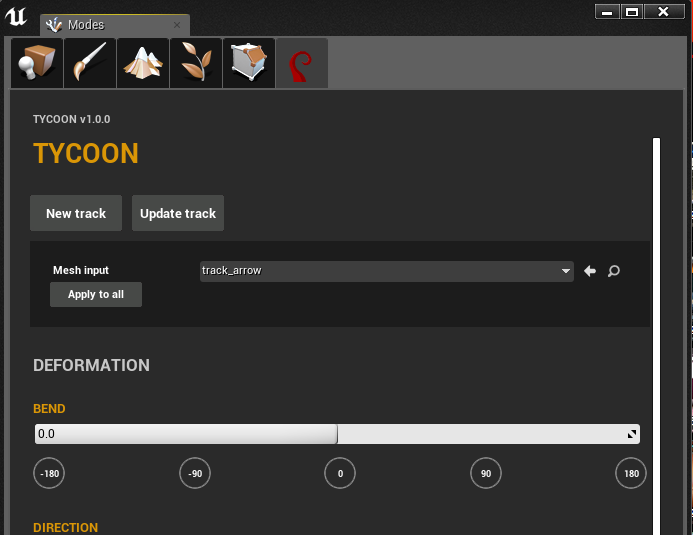
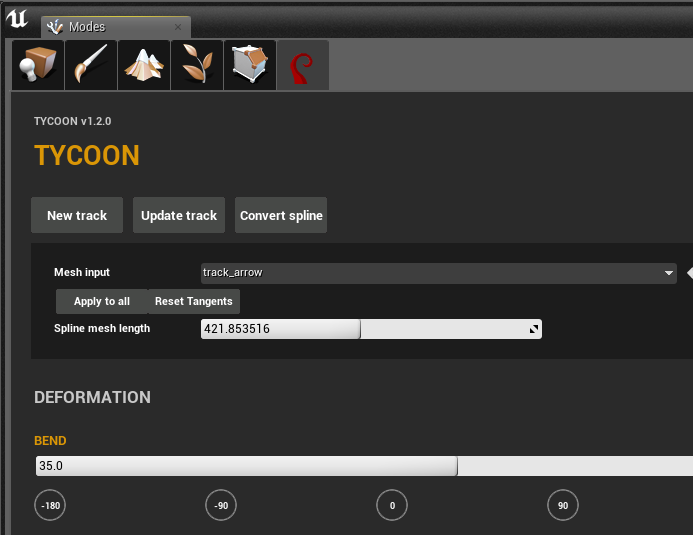
updated docs for 1.2.0

Changed region(s): [[0.0, 0.0, 1.0, 1.0]]

diff --git a/docs/quickstart.md b/docs/quickstart.md
@@ -44,14 +44,16 @@ Go to [Tycoon Service Center](https://tycoon.atlassian.net/servicedesk/customer/
 
 # Known issues with Tycoon Beta
 
-1. Source mesh must be facing the Y axis. (When preparing your mesh in your DDC application)
+Source mesh must be facing the Y axis. (When preparing your mesh in your DDC application)
 
-2. Only one material index is supported for track pieces.
+Only one material index is supported for track pieces.
 
-3. Material instances in Unreal Engine are not supported currently.
+Material instances in Unreal Engine are not supported currently.
 
-4. Tycoon piece is not being rebuilt automatically after saving the map / Help my track is gone after saving:
-Click "Update Track" to fix this.
+Closed beta only: Track does not working after shipping. Will be fixed after closed beta.
 
-5. Closed beta only: Track does not working after shipping. Will be fixed after closed beta.
+Saving spline presets is not supported yet, however you can still add existing presets to spline based tracks.
 
+Rotating the TycoonMain actor causes the spline to deform incorrectly, -> remove any rotation from the actor to resolve this for now.
+
+Spline mesh deforms incorrectly in some 90+ degree turns -> adjust the spline length to resolve this for now.

diff --git a/docs/attachments.md b/docs/attachments.md
@@ -11,23 +11,10 @@
 ![](/img/attachments1.PNG)
 
 
-# Enabling attachments to all pieces
-
-1. Tick the "Enable all attachments" checkbox.
-This will go through every piece and add an attachment actor.
-
 # Advanced settings
 
 1. Click the gear icon.
 
-> Ground height: This is the starting height where the attachments will be built from 
-
-> Amount of objects: The amount of objects that will be fit in a single track piece. 
-
-> Amount of rows: Tycoon will place attachments as a grid / table structure with columns and rows. For example: Two objects on two rows will create an attachment like: = =, using two objects on one row will do: - -.
-
-> Local offset that will be applied to every row.
-
-> Initial offset: The first offset that will applied to the first row.
+> Attachment distance: The distance between each attachment mesh.
 
 ![](/img/attachments2.PNG)

diff --git a/docs/changelists.md b/docs/changelists.md
@@ -1,5 +1,16 @@
 # Changelists
 
+## 1.2.0
+
+->  New: Added button to convert the entire track to spline meshes, you can now edit the track using the spline directly! Still experimental. (You might have to tweak the length slider in tight corners)
+->  New: Added spline length slider -> You can now adjust the length of each spline mesh.
+->  New: Refactored the attachment system to use the spline directly as well, makes it much easier to update.
+->  New: Changed the TycoonAnimation plugin to work based on distance on the spline vs just the points.
+
+Bugfixes:
+->  Fixed slow response on bend slider.
+->  Fixed crash when spline component had been removed
+
 ## 1.1.0
 
 -> Tycoon Animation hotfix: Resolved editor crashing when active train is not set in blueprints.

diff --git a/docs/track_build.md b/docs/track_build.md
@@ -13,6 +13,12 @@ You can use the preset buttons to quickly go to 90 degrees.
 
 4. To add a new piece to the track press the "Add" button, the "|" / straight button adds a straight piece without bend / direction or twist values.
 
+# Convert meshes to spline meshes (Experimental)
+
+1. Click the "Convert spline"
+
+2. Move / adjust the spline points of the Tycoon spline component part of your Tycoon main actor.
+
 ![](/img/trackaddui.PNG)
 
 

diff --git a/docs/README.md b/docs/README.md
@@ -17,8 +17,8 @@ See [Tycoon website](http://yvovonberg.nl/test/index.html) for more examples.
 
 # Build info
 
-Latest version Tycoon UE4: 1.1.0  
-Latest version Tycoon Animation UE4: 1.1.0
+Latest version Tycoon UE4: 1.2.0  
+Latest version Tycoon Animation UE4: 1.2.0
 
 [Changelists](changelists.md)
 

diff --git a/docs/shipping.md b/docs/shipping.md
@@ -1,4 +1,5 @@
 # Shipping
 
 The current version of the closed beta does not support shipping, because the plugin is currently "Editor only".
+
 This will be fixed after the closed beta. There might be an option to convert to static meshes as well to improve performance in shipping builds.
